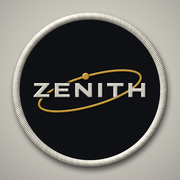
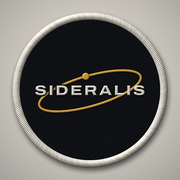
sideralis rename

Changed region(s): [[0.1667, 0.4444, 0.8333, 0.5556]]

diff --git a/index.html b/index.html
@@ -4,20 +4,20 @@
     <meta charset="UTF-8" />
     <meta name="viewport" content="width=device-width, initial-scale=1.0, viewport-fit=cover" />
     <meta name="theme-color" content="#060912" />
-    <title>Zenith: live satellite tracking</title>
+    <title>Sideralis: live satellite tracking</title>
     <meta name="description" content="Live satellite tracker and preliminary mission analysis tool: size new small satellites, plan Earth imaging and scope early-phase space debris removal missions." />
     <!-- Vista previa al compartir el enlace (WhatsApp, Telegram, X, LinkedIn…). VITE_SITE_URL la pone el despliegue -->
     <meta property="og:type" content="website" />
-    <meta name="application-name" content="Zenith" />
-    <meta name="apple-mobile-web-app-title" content="Zenith" />
-    <meta property="og:site_name" content="Zenith" />
-    <meta property="og:title" content="Zenith: live satellite tracking" />
+    <meta name="application-name" content="Sideralis" />
+    <meta name="apple-mobile-web-app-title" content="Sideralis" />
+    <meta property="og:site_name" content="Sideralis" />
+    <meta property="og:title" content="Sideralis: live satellite tracking" />
     <meta property="og:description" content="Live satellite tracker and preliminary mission analysis: size new small satellites, plan Earth imaging and scope debris removal missions." />
     <meta property="og:url" content="%VITE_SITE_URL%" />
     <meta property="og:image" content="%VITE_SITE_URL%og.png" />
     <meta property="og:image:width" content="1200" />
     <meta property="og:image:height" content="630" />
-    <meta property="og:image:alt" content="Zenith wordmark over a dark sky with a satellite orbit" />
+    <meta property="og:image:alt" content="Sideralis wordmark and mission patch over a dark sky" />
     <meta name="twitter:card" content="summary_large_image" />
     <link rel="apple-touch-icon" href="/apple-touch-icon.png" />
     <link rel="icon" type="image/png" sizes="32x32" href="/favicon-32.png" />

diff --git a/src/App.tsx b/src/App.tsx
@@ -544,10 +544,10 @@ export default function App() {
         <div className="brand">
           {/* Insignia: el parche bordado de la misión */}
           <img className="brand-mark" src={`${import.meta.env.BASE_URL}brand-patch.png`} width="30" height="30" alt="" />
-          {/* Logotipo: el punto de la «i» es el cénit, un satélite en la vertical del trazo */}
+          {/* Logotipo: el nombre en la serif de la web, sin adornos */}
           <span className="brand-name" role="img" aria-label={APP_NAME}>
             <span aria-hidden>
-              Zen<span className="brand-i">ı</span>th
+              Sideralis
             </span>
           </span>
         </div>

diff --git a/src/brand.ts b/src/brand.ts
@@ -1,2 +1,2 @@
 /** Nombre de la aplicación. El cénit (zenith) es el punto del cielo justo encima del observador. */
-export const APP_NAME = 'Zenith'
+export const APP_NAME = 'Sideralis'

diff --git a/README.md b/README.md
@@ -1,8 +1,8 @@
-# Zenith
+# Sideralis
 
 Live satellite tracker and first-order mission analysis tool for new small satellites, Earth imaging and early-phase debris removal studies, using public orbital data from [CelesTrak](https://celestrak.org). Results are preliminary estimates, not operational products.
 
-The zenith is the point of the sky directly above the observer.
+The name is Latin for "of the stars" and the root of sidereal time, the rotation of the Earth measured against the stars: the angle that turns the inertial frame where orbits are computed into the Earth-fixed frame where we live.
 
 ## Run locally
 
@@ -118,7 +118,7 @@ three.js: points are interpolated on the GPU between two epochs → smooth 60 fp
 | `src/workers/propagator.worker.ts` | SGP4 propagation off the main thread |
 | `src/lib/positionStream.ts` | Requests positions ahead of time and picks the epochs to interpolate between |
 | `src/lib/clock.ts` | Simulation clock (pause, speed up, run backwards) |
-| `src/lib/astro.ts` | Sidereal time and Sun direction |
+| `src/lib/astro.ts` | Sideralis time and Sun direction |
 | `src/lib/orbit.ts` | Orbital regime (LEO/MEO/GEO/HEO) |
 | `src/lib/astrodynamics.ts` | RV2COE, mean elements, β, eclipse, J2 drifts |
 | `src/lib/frame.ts` | ECEF/ECI frames and the GMST rotation |
